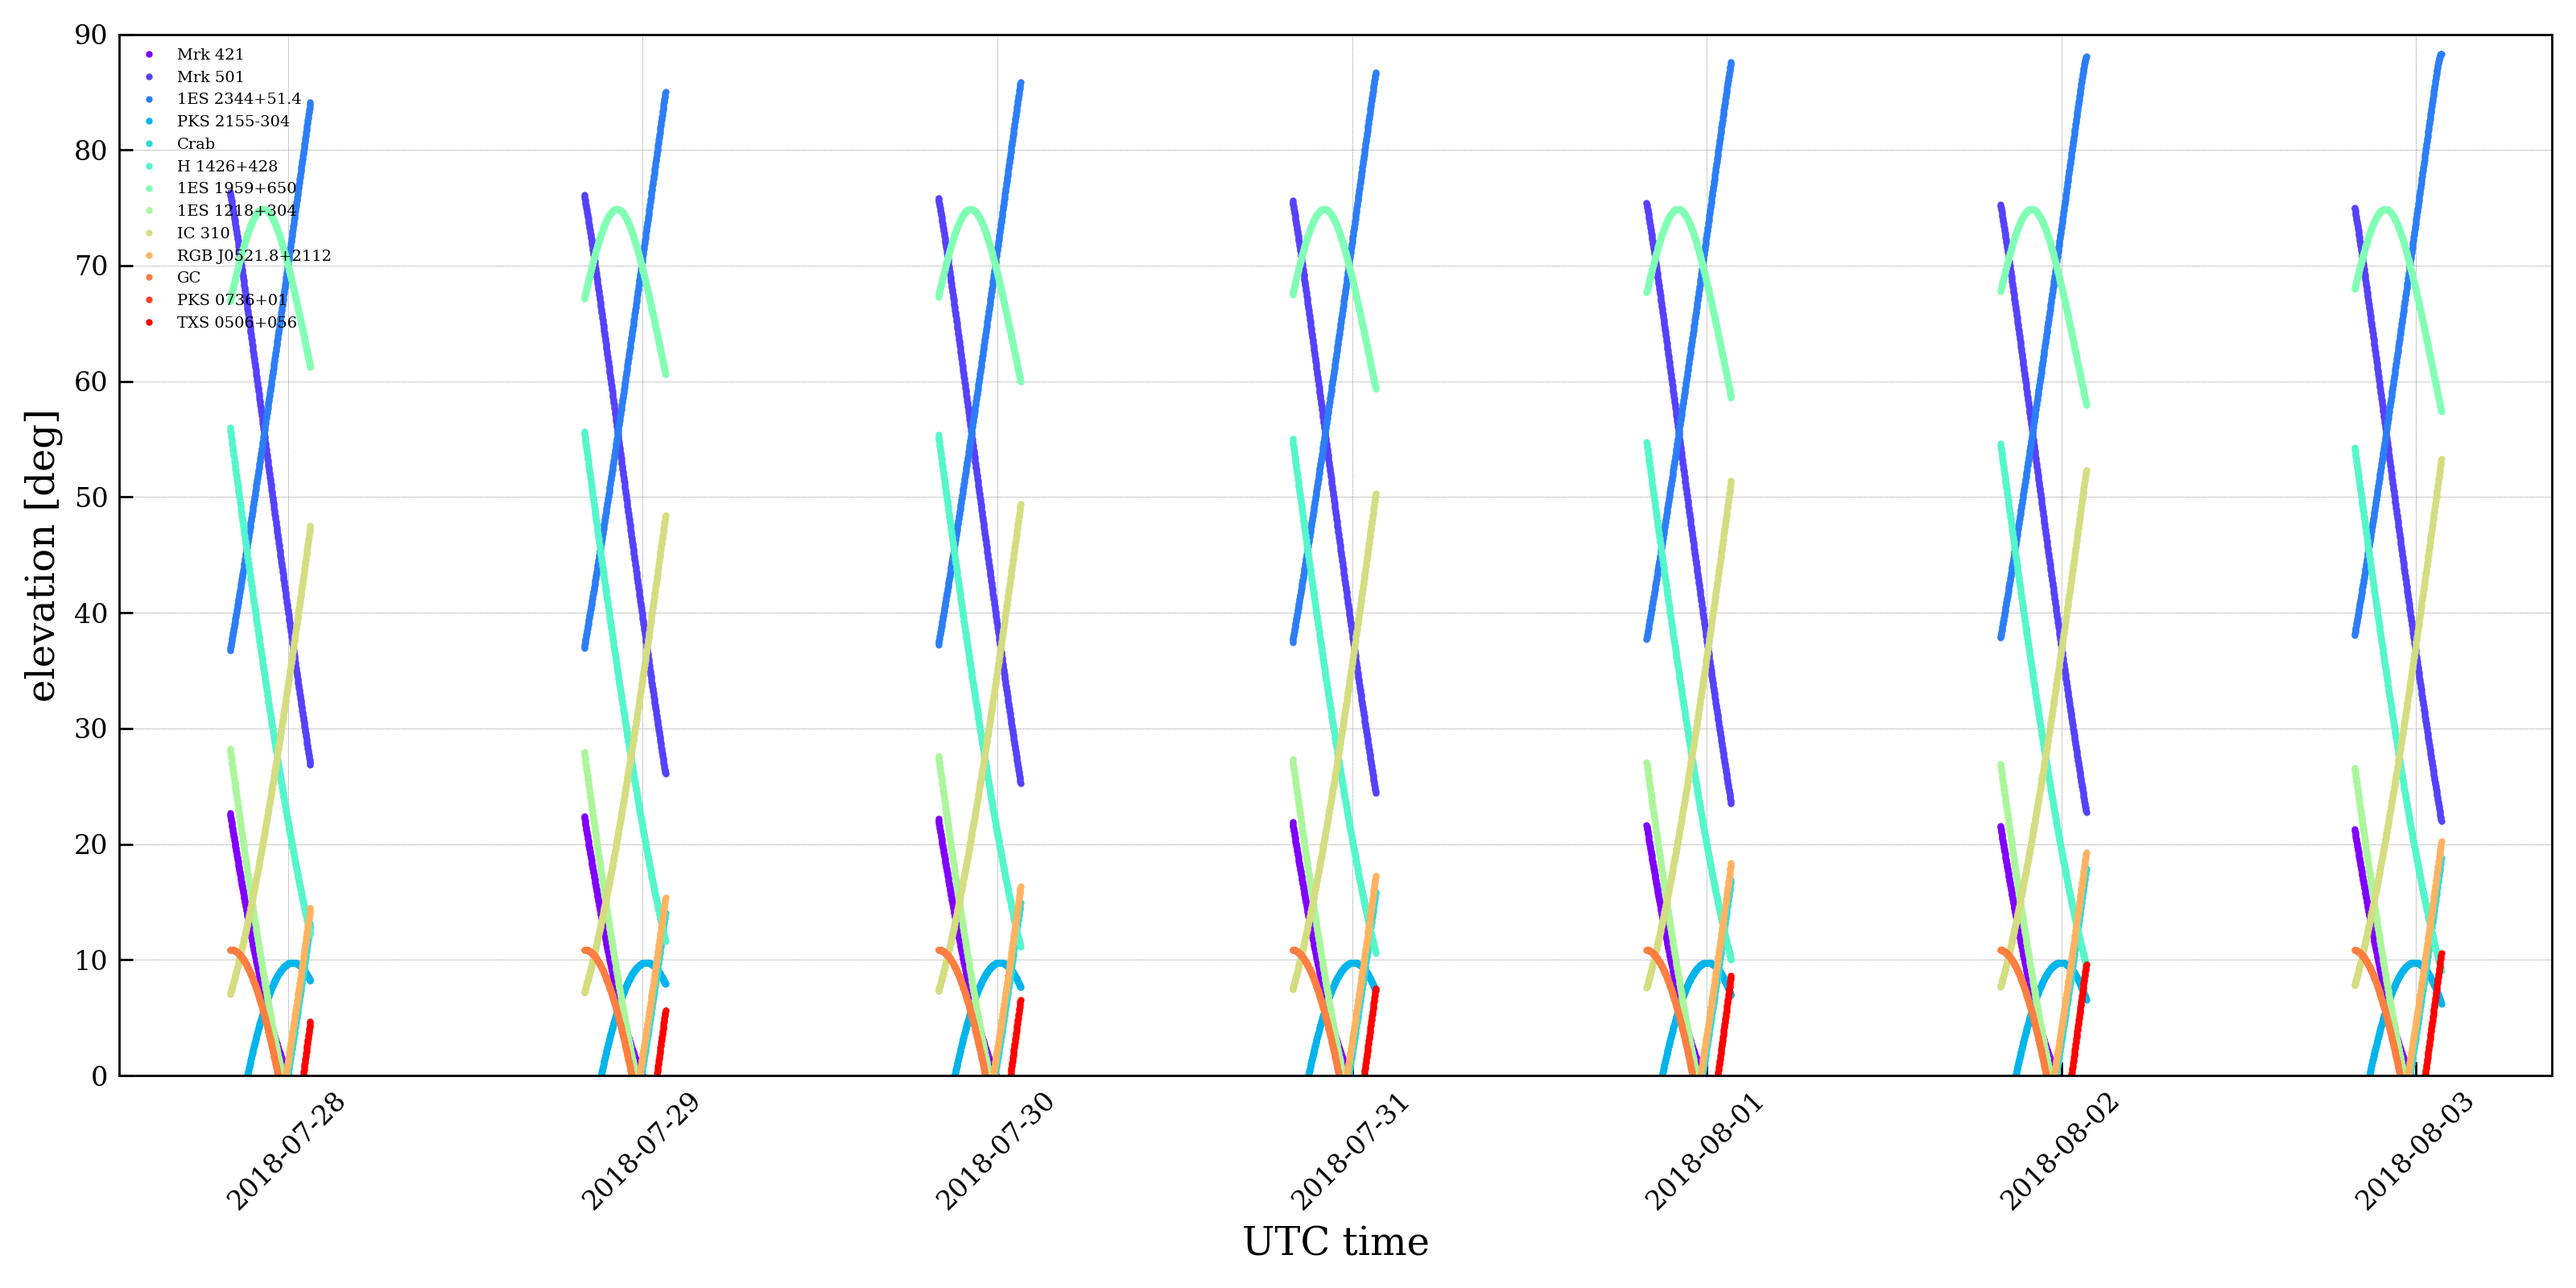
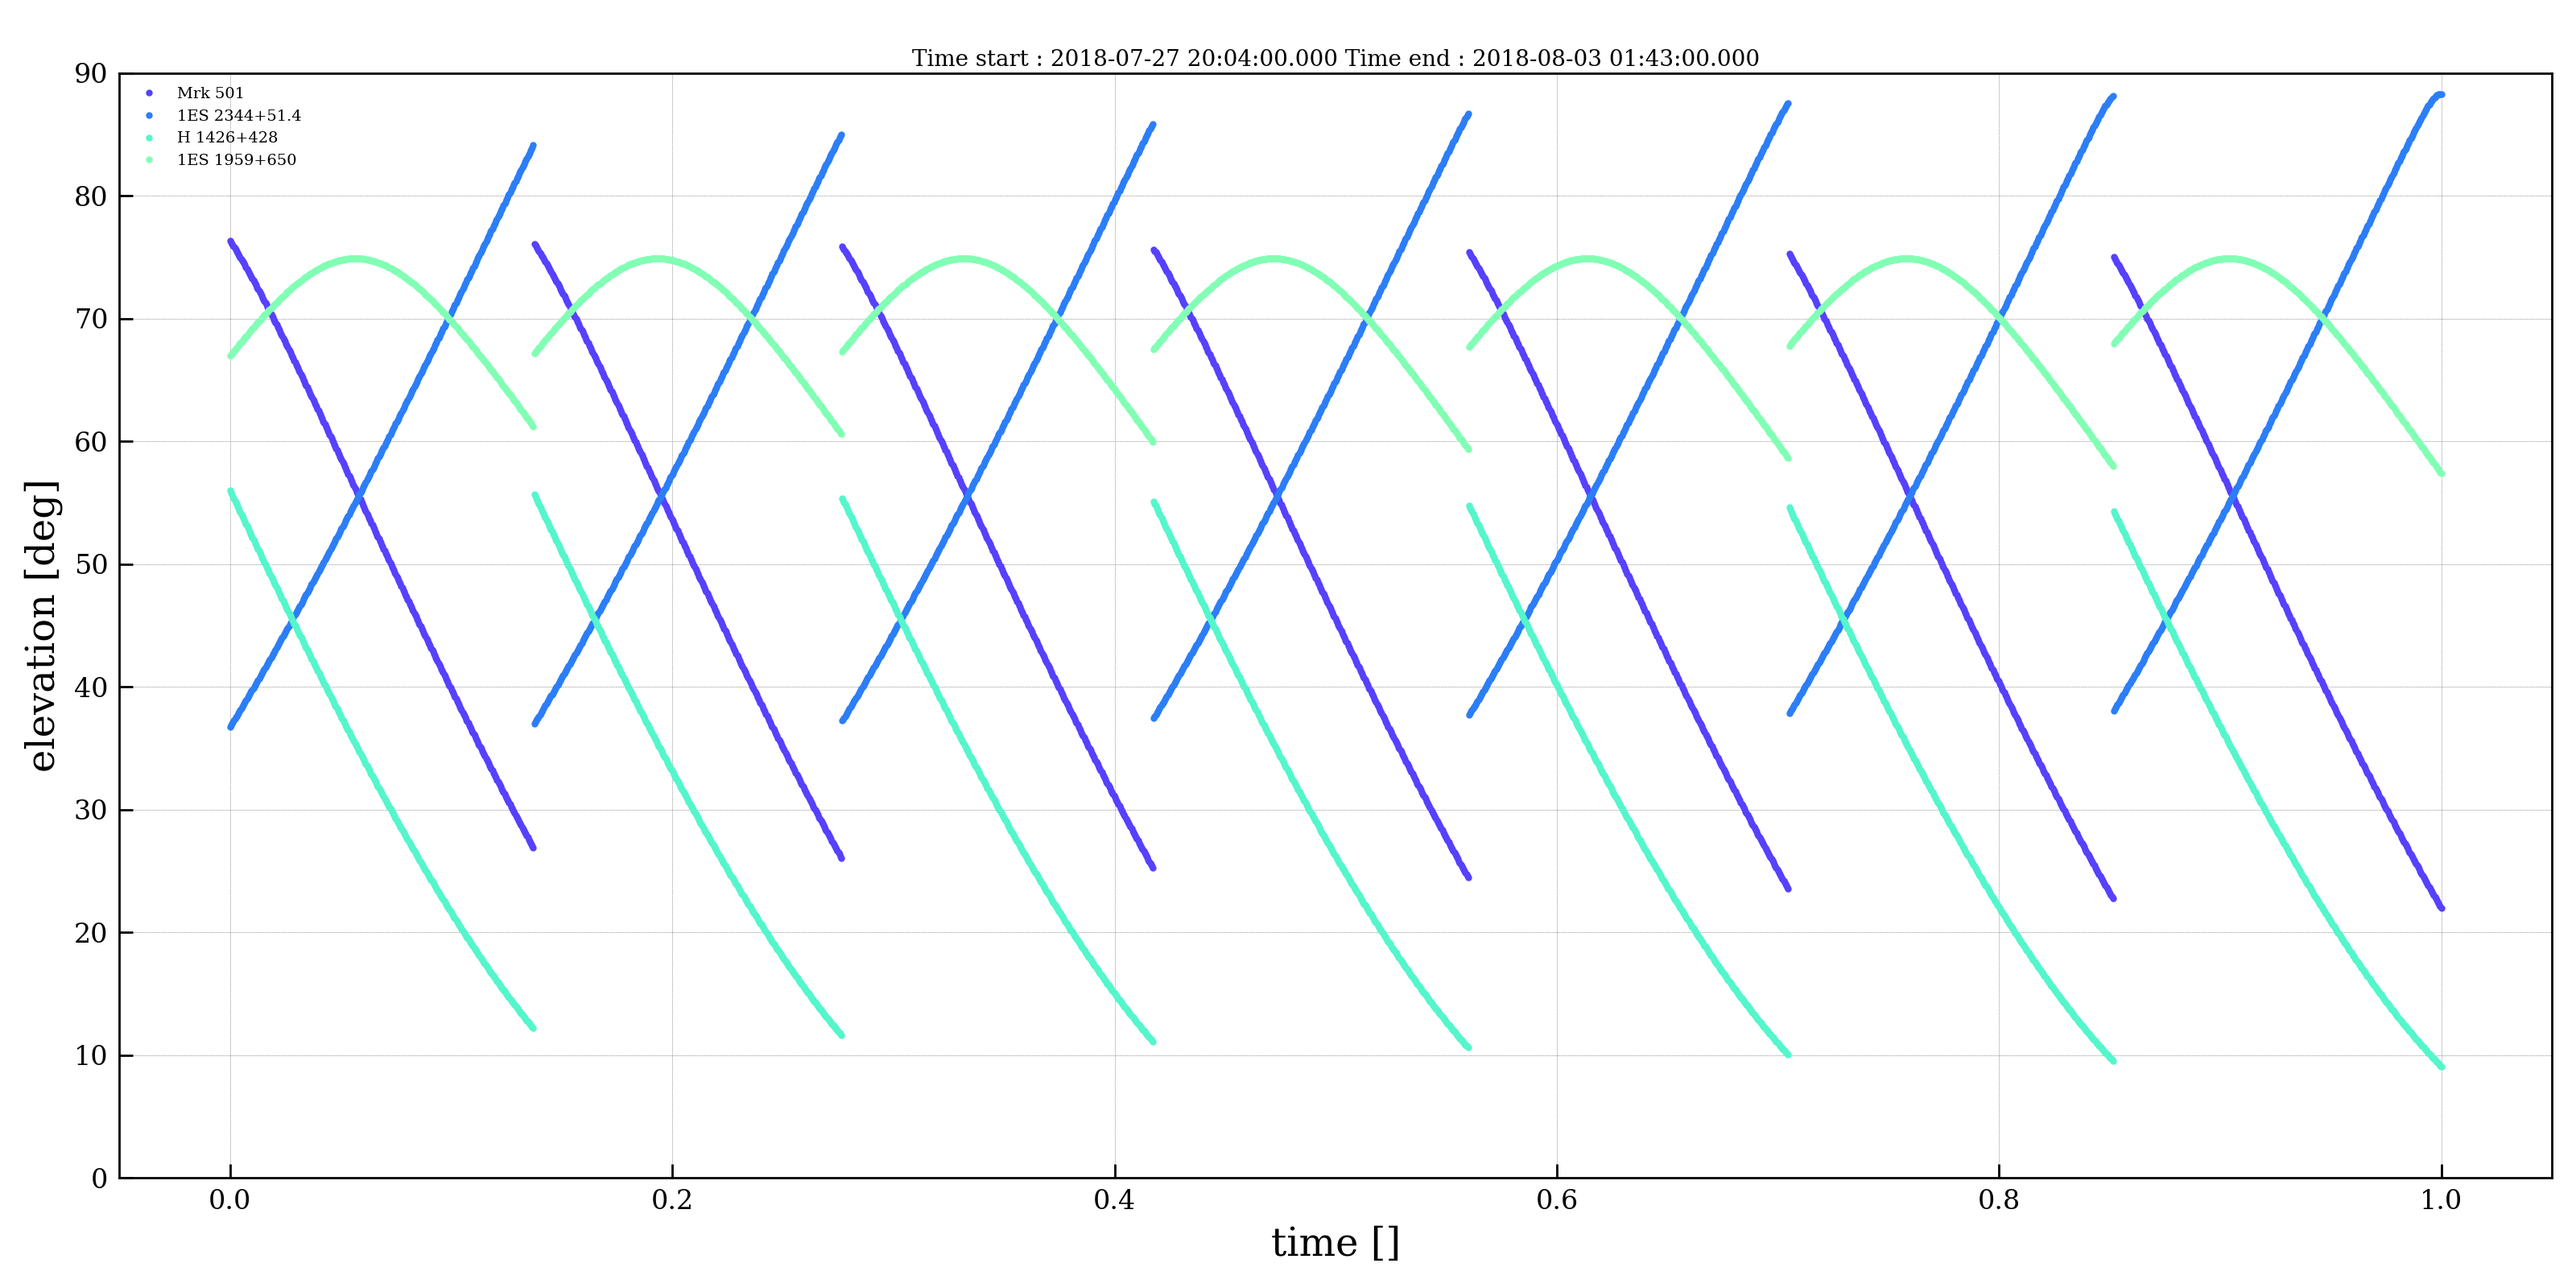
elevation plot fixes

diff --git a/digicamscheduling/scripts/elevation.py b/digicamscheduling/scripts/elevation.py
@@ -21,6 +21,8 @@ Options:
  --environment_filename=PATH  PATH for environmental limitations
                               [default: digicamscheduling/config/environmental_limitation.txt]
  --show                       View directly the plot
+ --threshold=N                Threshold for visibility
+                              [default: 0.5]
 """
 from docopt import docopt
 import numpy as np
@@ -39,7 +41,8 @@ import os
 
 
 def main(sources_filename, location_filename, environment_filename,
-         start_date, end_date, time_steps, output_path, show=False):
+         start_date, end_date, time_steps, output_path, show=False,
+         threshold=0.5):
 
     sources = reader.read_catalog(sources_filename)
     coordinates = reader.read_location(filename=location_filename)
@@ -93,12 +96,14 @@ def main(sources_filename, location_filename, environment_filename,
         source_visibility = is_above_trees * np.sin(source_elevation)
         source_visibility *= observability * (moon_separation > 10 * u.deg)
 
-        label = source['name']
-        plot_elevation(date, source_elevation, axes=axes_1, color=c,
-                       label=label)
-        plot_source(date, source_visibility,
-                    axes=axes_2, color=c, y_label='visibility []',
-                    ylim=[0, 1], label=label)
+        if np.any(source_visibility >= threshold):
+
+            label = source['name']
+            plot_elevation(date, source_elevation, axes=axes_1, color=c,
+                           label=label)
+            plot_source(date, source_visibility,
+                        axes=axes_2, color=c, y_label='visibility []',
+                        ylim=[threshold, 1], label=label)
 
     fig_1.savefig(os.path.join(output_path, 'elevation.png'))
     fig_2.savefig(os.path.join(output_path, 'visibility.png'))
@@ -119,7 +124,8 @@ def entry():
          end_date=args['--end_date'],
          time_steps=float(args['--time_step']) * u.minute,
          output_path=args['--output_path'],
-         show=args['--show'])
+         show=args['--show'],
+         threshold=float(args['--threshold']))
 
 
 if __name__ == '__main__':

diff --git a/digicamscheduling/display/plot.py b/digicamscheduling/display/plot.py
@@ -6,6 +6,30 @@ from matplotlib.dates import DateFormatter
 
 def plot_source(date, position, y_label='', axes=None, ylim=None, **kwargs):
 
+    """
+    fig = axes.get_figure()
+    temp = date.mjd - date.mjd.min()
+    n_days = int(temp.max())
+
+    fig, axes = plt.subplots(1, n_days, sharey=True)
+    axes[0].set_xlabel('UTC time')
+    axes[0].set_ylim(ylim)
+
+    for i, day in enumerate(range(1, n_days+1, 1)):
+
+        t = date[temp <= day].plot_date
+        y = position[temp <= day]
+
+        axes[i].plot_date(t, y, **kwargs)
+        axes[i].set_xlim(t.min(), t.max())
+        axes[i].set_ylabel(y_label)
+        if ylim is not None:
+        for tick in axes[i].get_xticklabels():
+            tick.set_rotation(45)
+    axes[-1].legend(loc='best')
+    fig.autofmt_xdate()
+
+
     if axes is None:
         fig = plt.figure()
         axes = fig.add_subplot(111)
@@ -19,6 +43,27 @@ def plot_source(date, position, y_label='', axes=None, ylim=None, **kwargs):
     plt.gcf().autofmt_xdate()
     for tick in axes.get_xticklabels():
         tick.set_rotation(45)
+
+    """
+
+    if axes is None:
+        fig = plt.figure()
+        axes = fig.add_subplot(111)
+
+    title = '\nTime start : {} Time end : {}'.format(date.min(), date.max())
+
+    axes.set_title(title, fontsize=20)
+
+    t = np.linspace(0, 1, num=len(date))
+    axes.plot(t, position, **kwargs)
+    axes.set_xlabel('time []')
+    axes.set_ylabel(y_label)
+    if ylim is not None:
+        axes.set_ylim(ylim)
+    axes.legend(loc='best')
+    # plt.gcf().autofmt_xdate()
+    # for tick in axes.get_xticklabels():
+    #    tick.set_rotation(45)
 
     return axes
 
